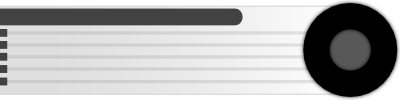
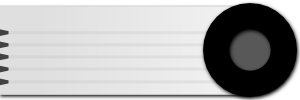
testing animation of test element

Changed region(s): [[0.0, 0.0, 1.0, 1.0], [0.0, 0.06, 0.63, 0.87]]

diff --git a/public/test.html b/public/test.html
@@ -3,32 +3,41 @@
     <link href="./stylesheets/test.css" rel="stylesheet">
 </head>
 <body>
-    <a href="#channel1">
+
     <div class="channel">
-        <div class="ch_top"><span class="ch_name">active channel </span></div>
-        <div class="ch_mid"><span class="ch_value">7.7 V </span></div>
-        <canvas id="radial1" width="100" height="100" class="radial"></canvas>
+        <div class="ch_top"><span class="ch_name">green channel [V] </span></div>
+        <div class="ch_mid"><span class="ch_value" id="value1">7.7 </span></div>
+        <a href="#channel1">
+            <canvas id="radial1" width="100" height="100" class="radial"></canvas>
+        </a>
     </div>
-    </a>
-    <a href="#channel2">
+
+
     <div class="channel">
-        <div class="ch_top"><span class="ch_name">inactive channel </span></div>
-        <div class="ch_mid"><span class="ch_value"> </span></div>
-        <canvas id="radial2" width="100" height="100" class="radial"></canvas>
+        <div class="ch_top"><span class="ch_name">cold channel </span></div>
+        <div class="ch_mid"><span class="ch_value" id="value2"> 0.99</span></div>
+        <a href="#channel2">
+            <canvas id="radial2" width="100" height="100" class="radial"></canvas>
+        </a>
     </div>
-    </a>
-    <a href="#channel3">
+
+
     <div class="channel">
-        <div class="ch_top"><span class="ch_name">another channel </span></div>
-        <div class="ch_mid"><span class="ch_value">33 kV </span></div>
-        <canvas id="radial3" width="100" height="100" class="radial"></canvas>
+        <div class="ch_top"><span class="ch_name">hot channel [kV]</span></div>
+        <div class="ch_mid"><span class="ch_value" id="value3">33 </span></div>
+        <a href="#channel3">
+            <canvas id="radial3" width="100" height="100" class="radial"></canvas>
+        </a>
     </div>
-    </a>
+
 
     <script>
         window.onload = function() {
+            var green = ["#ffff00", "#d1ff00", "#08ff3e", "#00ff00"];
+            var hot = ["#fff500", "#ff9800", "#ff7100", "#ff0000"];
+            var cold = ["#9cf4ff", "#32d6f1", "#3296f1", "#936ffb"];
 
-            var drawRadial = function(canvas_id, value, active, old) {
+            var drawRadial = function(canvas_id, value, active, old, color_levels) {
 
                 var canvas = document.getElementById(canvas_id);
                 var ctx = canvas.getContext("2d");
@@ -36,6 +45,11 @@
                 var w = canvas.width;
                 var h = canvas.height;
                 var delta = 2.0*Math.PI/400;
+
+                ctx.setTransform(1, 0, 0, 1, 0, 0);
+                ctx.clearRect(0, 0, w, h);
+
+
 
                 ctx.translate(w / 2, h / 2);
                 ctx.rotate(0.5 * Math.PI);
@@ -54,10 +68,13 @@
                     ctx.strokeStyle="#000000";
                 }
 
-                ctx.arc(0, 0, 0.5*0.23*w, 0.8*Math.PI, 1.2*Math.PI, true);
+                //ctx.moveTo(0, 0);
 
+                ctx.beginPath();
+                ctx.arc(0, 0, 0.5*0.23*w, 0.8*Math.PI, 1.2*Math.PI, true);
                 ctx.stroke();
 
+                ctx.beginPath();
                 ctx.moveTo(0, 0);
                 ctx.lineTo(-0.6*0.23*w, 0);
                 ctx.stroke();
@@ -85,31 +102,31 @@
 
                     //drawArcFill(r0*0.9, r1*1.05, 0.0, 2.0*Math.PI, "#000000");
 
-                    var remainder = value;
+                    var remainder = Math.abs(value);
                     var begin_theta = 0;
 
                     if (remainder >= 1.0) {
-                        drawArcFill(r0, r1, 0.0, 2.0*Math.PI, "#ff0000");
+                        drawArcFill(r0, r1, 0.0, 2.0*Math.PI, color_levels[3]);
 
                         return;
                     }
 
                     if (remainder >= 0.5) {
                         // draw the 0.5 level arc
-                        drawArcFill(r0, r1, 0.0, 1.0*Math.PI, "#ff7100");
+                        drawArcFill(r0, r1, delta, 1.0*Math.PI, color_levels[2]);
                         remainder = remainder - 0.5;
-                        begin_theta += 1.0*Math.PI + delta;
+                        begin_theta += 1.0*Math.PI;
                     }
 
                     while (remainder >= 0.1) {
                         // draw the 0.1 levels arc
-                        drawArcFill(r0, r1, begin_theta, begin_theta + 0.2*Math.PI, "#ff9800");
+                        drawArcFill(r0, r1, begin_theta + delta, begin_theta + 0.2*Math.PI, color_levels[1]);
                         remainder = remainder - 0.1;
-                        begin_theta += 0.2*Math.PI + delta;
+                        begin_theta += 0.2*Math.PI;
                     }
 
                     if (remainder > 0.0){
-                        drawArcFill(r0, r1, begin_theta, begin_theta + 2*Math.PI*remainder, "#fff500");
+                        drawArcFill(r0, r1, begin_theta + delta, Math.max(begin_theta + delta, Math.min(2*Math.PI - delta, begin_theta + 2*Math.PI*remainder)), color_levels[0]);
                     }
 
                 }
@@ -117,9 +134,37 @@
                 drawSegments(value, 0.23*w, 0.45*w);
             };
 
-            drawRadial("radial1", 0.77, true);
-            drawRadial("radial2", 0, false);
-            drawRadial("radial3", 0.33, true, true);
+
+            window.requestAnimationFrame = window.requestAnimationFrame || window.mozRequestAnimationFrame ||
+                    window.webkitRequestAnimationFrame || window.oRequestAnimationFrame;
+
+            var start = null;
+
+            function step(timestamp) {
+                if (start === null) {
+                    start = timestamp;
+                }
+
+                var t = (timestamp - start)/1000;
+
+                var value = 1.01*Math.sin(t*2*Math.PI/20);
+                document.getElementById("value1").innerHTML = (value * 10).toFixed(2);
+                drawRadial("radial1", value, true, false, green);
+
+                value = 1.01*Math.sin((t+5)*2*Math.PI/20);
+                document.getElementById("value2").innerHTML = (value).toFixed(2);
+                drawRadial("radial2", value, true, false, cold);
+
+                value = 1.01*Math.sin((t+10)*2*Math.PI/20);
+                document.getElementById("value3").innerHTML = (value * 100).toFixed(1);
+                drawRadial("radial3", value, true, true, hot);
+
+                requestAnimationFrame(step);
+            }
+
+            requestAnimationFrame(step);
+
+
         };
     </script>
 </body>

diff --git a/public/stylesheets/test.css b/public/stylesheets/test.css
@@ -9,10 +9,10 @@ a {
 
 .channel {
     position: relative;
-    width: 16em;
+    width: 12em;
     height: 4em;
     background: url(../images/channel_bar.png);
-    background-size: 16em 4em;
+    background-size: 12em 4em;
     background-repeat: no-repeat;
     /*-webkit-box-shadow: inset 0 0 0.3em 0 rgba(0,0,0,0.75);
     -moz-box-shadow: inset 0 0 0.3em 0 rgba(0,0,0,0.75);
@@ -21,18 +21,18 @@ a {
 
 .ch_top {
     position: absolute;
-    left: 1em;
-    top: 0.2em;
+    left: 0.5em;
+    top: 0.25em;
 }
 
 .ch_mid {
     position: absolute;
-    left: 2em;
+    left: 1em;
     top: 1.2em;
 }
 
 .ch_name {
-    color: #ffffff;
+    color: #424242;
     font-size: 0.8em;
     font-weight: bold;
     font-family: Arial, "Lucida Console", Monaco, monospace;
@@ -40,7 +40,7 @@ a {
 }
 
 .ch_component {
-    color: #ededed;
+    color: #424242;
     font-size: 0.8em;
 
     font-family: Arial, "Lucida Console", Monaco, monospace;
@@ -58,7 +58,7 @@ a {
 
 .radial {
     position: absolute;
-    left: 12em;
+    left: 8em;
     width: 4em;
     height: 4em;
 }
